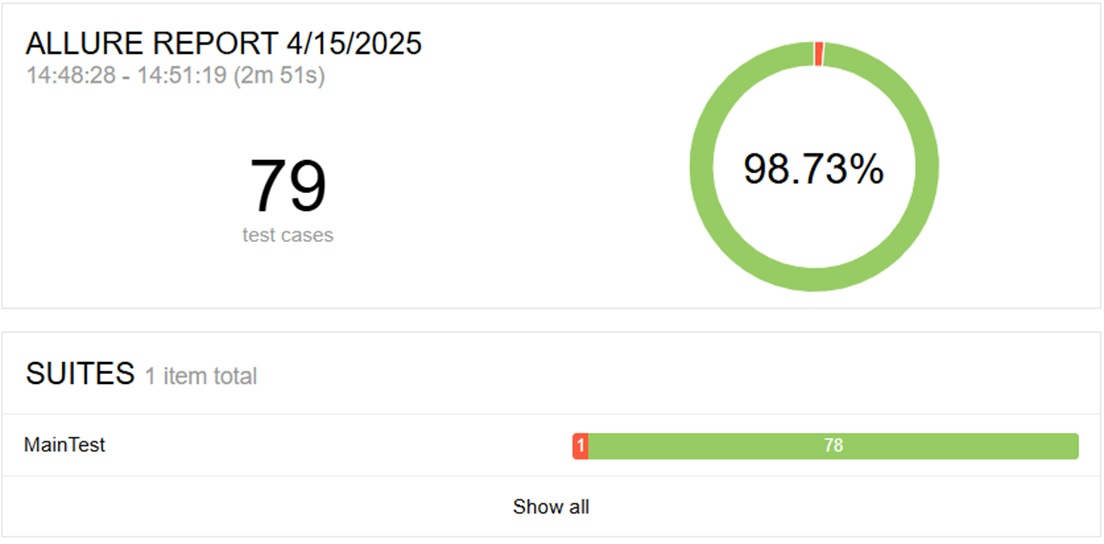
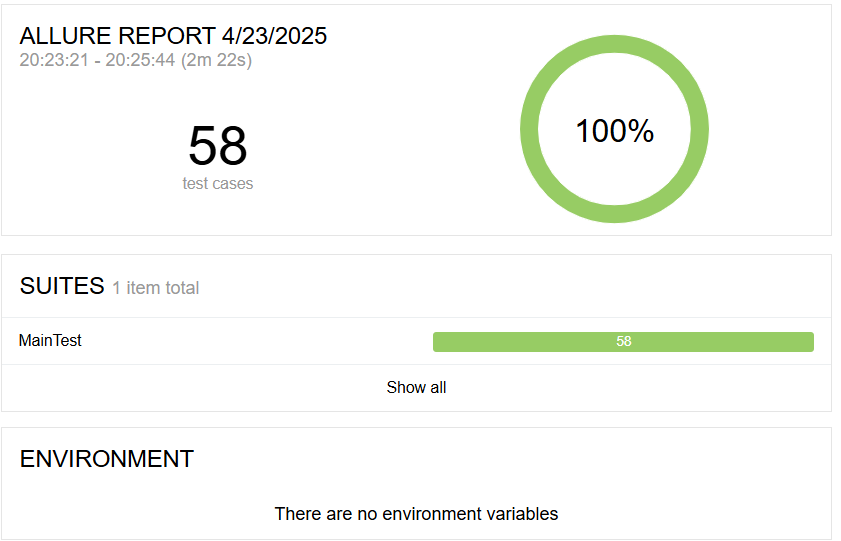
steps have been updated

diff --git a/src/main/java/org/akavity/pages/FiltersBlockPage.java b/src/main/java/org/akavity/pages/FiltersBlockPage.java
@@ -7,11 +7,11 @@ import static com.codeborne.selenide.Selenide.$;
 
 public class FiltersBlockPage {
     private final SelenideElement titleField = $(By.cssSelector("[class='catalog-title']"));
-    private final SelenideElement salesButton = $(By.xpath("//span[text()='РАСПРОДАЖА']/.."));
+    private final SelenideElement salesButton = $(By.xpath("//span[text()='РАСПРОЖАРА']/.."));
     private final SelenideElement minPrice = $(By.cssSelector("div[class*='filter__price'] input[name*='start']"));
     private final SelenideElement maxPrice = $(By.cssSelector("div[class*='filter__price'] input[name*='end']"));
     private final SelenideElement priceReadyButton = $(By.xpath("//button[contains(@class,'filter-btn') and contains(.,'Готово')]"));
-    private final SelenideElement sorterButton = $(By.xpath("//button[contains(@class,'sorter')]/.."));//button[contains(@class,'sorter')]/..   //button[class*='sorter']
+    private final SelenideElement sorterButton = $(By.xpath("//button[contains(@class,'sorter')]/.."));
     private final SelenideElement allFiltersButton = $(By.cssSelector("button[class*='filter__btn--all']"));
 
     public SelenideElement getButton(String name) {

diff --git a/src/main/java/org/akavity/pages/InfoPage.java b/src/main/java/org/akavity/pages/InfoPage.java
@@ -16,7 +16,7 @@ public class InfoPage {
         return $(By.xpath("//h2[contains(@class,'dropdown-t') and contains(text(),'" + title + "')]/.."));
     }
 
-    public SelenideElement getDropDownContent(String cont) {  // String title, String cont
+    public SelenideElement getDropDownContent(String cont) {
         return $(By.xpath("//h1[@class='faq-title c-h1']/..//p[contains(text(),'" + cont + "')] " +
                 " | //h2[contains(@class,'dropdown-title')]/..//p[contains(text(),'" + cont + "')]"));
 

diff --git a/src/main/java/org/akavity/steps/HeaderSteps.java b/src/main/java/org/akavity/steps/HeaderSteps.java
@@ -75,7 +75,7 @@ public class HeaderSteps {
         Utils.sleep(2000);
         log.info("Check address of pick up point");
         boolean res = headerPage.getGeolocationButtonByText(address).isDisplayed();
-        if (res == true) {
+        if (res) {
             log.info("Address {} is displayed", address);
         } else {
             log.info("Address {} isn't displayed", address);

diff --git a/src/main/java/org/akavity/steps/CatalogSteps.java b/src/main/java/org/akavity/steps/CatalogSteps.java
@@ -85,7 +85,7 @@ public class CatalogSteps {
 
     @Step
     public String getFirstProductCardBrand() {
-        String brand = catalogPage.getBrandFields().first().getText();
+        String brand = catalogPage.getBrandFields().first().getText().toLowerCase();
         log.info("Brand of the first product card: {}", brand);
         return brand;
     }

diff --git a/src/main/java/org/akavity/steps/PopupSteps.java b/src/main/java/org/akavity/steps/PopupSteps.java
@@ -26,7 +26,7 @@ public class PopupSteps {
 
     @Step
     public String getProductBrand() {
-        String brand = popupPage.getProductBrand().getText();
+        String brand = popupPage.getProductBrand().getText().toLowerCase();
         log.info("Popup product brand: {}", brand);
         return brand;
     }

diff --git a/src/main/java/org/akavity/steps/FiltersBlockSteps.java b/src/main/java/org/akavity/steps/FiltersBlockSteps.java
@@ -34,6 +34,7 @@ public class FiltersBlockSteps {
         Utils.sleep(1000);
         filter.getRadioButton(type).shouldBe(visible);
         filter.getRadioButton(type).click();
+        filter.getTitleField().click();
     }
 
     @Step
